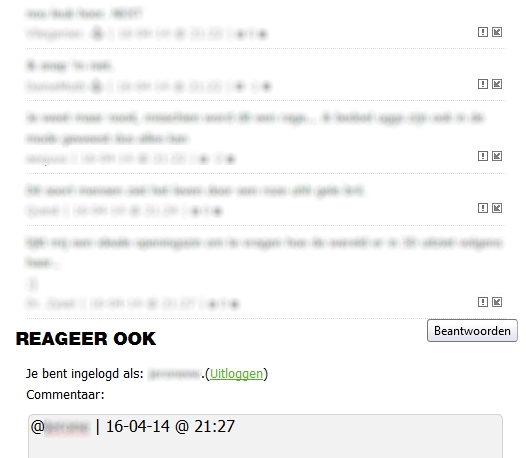
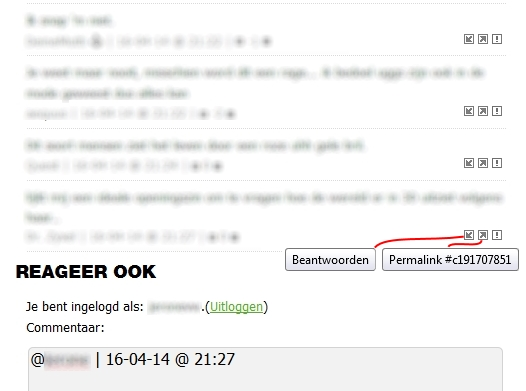
* Added permalink;

diff --git a/GeenStijl_Powned_Dumpert_Comment_Enhancer/GeenStijl_Powned_Dumpert_Comment_Enhancer.user.js b/GeenStijl_Powned_Dumpert_Comment_Enhancer/GeenStijl_Powned_Dumpert_Comment_Enhancer.user.js
@@ -13,7 +13,7 @@
 // @include     http*://*dumpert.nl/mediabase/*
 // @include     http*://*daskapital.nl/*
 // @include     http*://*glamora.ma/*
-// @version     1.0
+// @version     2.0
 // @grant       none
 // ==/UserScript==
 
@@ -47,28 +47,44 @@
 	};
 
[2 lines of base64/hex data omitted]
 
 	var commentsList = document.getElementById("comments");
 	if (commentsList) {
 		wait(function() {
-			return commentsList.querySelectorAll("article,.comment").length > 0;
+			return commentsList.querySelectorAll("article .nsb,.comment .nsb").length > 0;
 		}, function() {
-			var textArea = document.getElementById("text");
-			if (textArea) {
-				Array.forEach(commentsList.querySelectorAll("article,.comment"), function(comment) {
-					var footer = comment.querySelector("footer,.footer");
+			Array.forEach(commentsList.querySelectorAll("article,.comment"), function(comment) {
+				var footer = comment.querySelector("footer,.footer");
 
+				if (comment.id) {
+					var perma = document.createElement("a");
+					perma.classList.add("nsb");
+					perma.setAttribute("href", String.format("#{0}", comment.id));
+					perma.setAttribute("title", String.format("Permalink #{0}", comment.id));
+					perma.style.backgroundImage = String.format("url('{0}')", permaImgScr);
+					perma.style.backgroundPosition = "center center";
+					perma.style.marginRight = "4px";
+					if (/https?:\/\/www\.powned\.tv\/nieuws\/.*/.test(location.href)) {  // add missing css;
+						perma.style.cursor = "pointer";
+						perma.style.cssFloat = "right";
+						perma.style.height = perma.style.width = "10px";
+					}
+					footer.appendChild(perma);
+				}
+
+				var textArea = document.getElementById("text");
+				if (textArea) {
 					var reply = document.createElement("span");
 					reply.classList.add("nsb");
 					reply.setAttribute("title", "Beantwoorden");
 					reply.style.backgroundImage = String.format("url('{0}')", replyImgScr);
 					reply.style.backgroundPosition = "center center";
-					reply.style.marginLeft = reply.style.marginRight = "4px";
+					reply.style.marginRight = "4px";
 					if (/https?:\/\/www\.powned\.tv\/nieuws\/.*/.test(location.href)) {  // add missing css;
 						reply.style.cursor = "pointer";
 						reply.style.cssFloat = "right";
-						reply.style.height = "10px";
-						reply.style.width = "10px";
+						reply.style.height = reply.style.width = "10px";
 					}
 					reply.addEventListener("click", proxy(function() {
 						textArea.value += String.format("@{0}\n", Array.map(this.childNodes, function(node) {
@@ -78,8 +94,8 @@
 						textArea.scrollIntoView();
 					}).bind(footer));
 					footer.appendChild(reply);
-				});
-			}
+				}
+			});
 		});
 	}
 

diff --git a/GeenStijl_Powned_Dumpert_Comment_Enhancer/README.md b/GeenStijl_Powned_Dumpert_Comment_Enhancer/README.md
@@ -28,6 +28,8 @@ Currently supported sites:
 
 ### Version History
 
+* **2.0**
+    * Add permalink;
 * **1.0**
     * Initial version;
 
@@ -39,10 +41,9 @@ Currently supported sites:
 - Highlight particular comments;
 - Pre-defined comments;
 - Signature;
-- Permalink;
+- ~~Permalink~~;
 
 ### External links
 
 * [Greasy Fork](https://greasyfork.org/scripts/###)
 * [Userscripts.org](http://userscripts.org/scripts/show/35698) (not maintained anymore).
-
